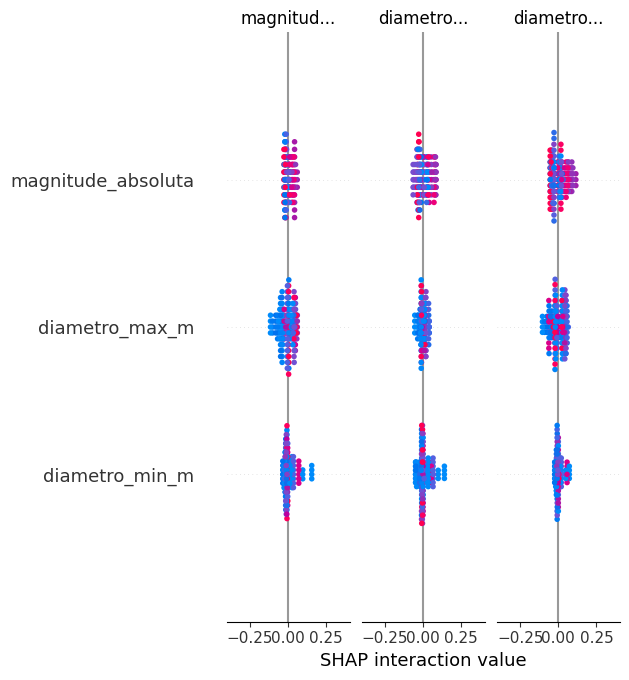
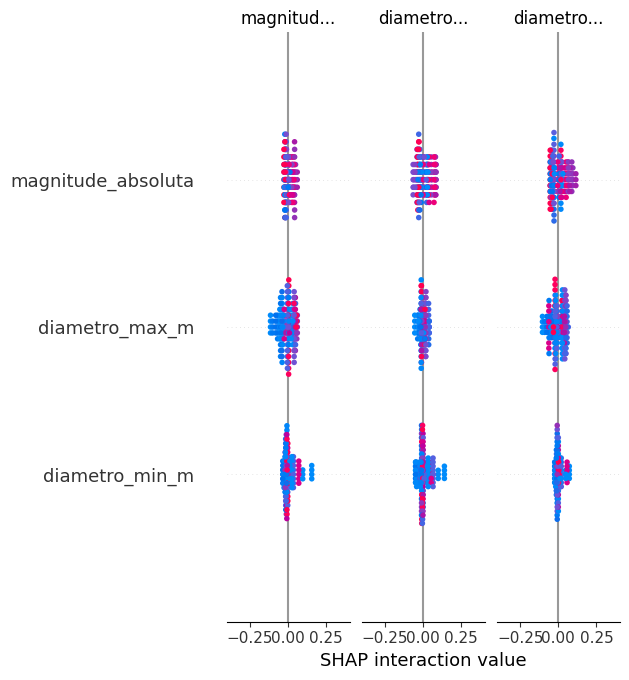
atualizando graficos

diff --git a/03_v2_pre_processamento.py b/03_v2_pre_processamento.py
@@ -3,7 +3,7 @@ from sklearn.model_selection import train_test_split
 from sklearn.preprocessing import LabelEncoder, StandardScaler
 import joblib
 
-df = pd.read_csv("data/dataset_orbitrisk_feature_engineering.csv")
+df = pd.read_csv("dataset_orbitrisk_feature_engineering.csv")
 
 # Remover colunas textuais pouco úteis para o modelo
 df = df.drop(columns=["data_evento", "nome_objeto"])